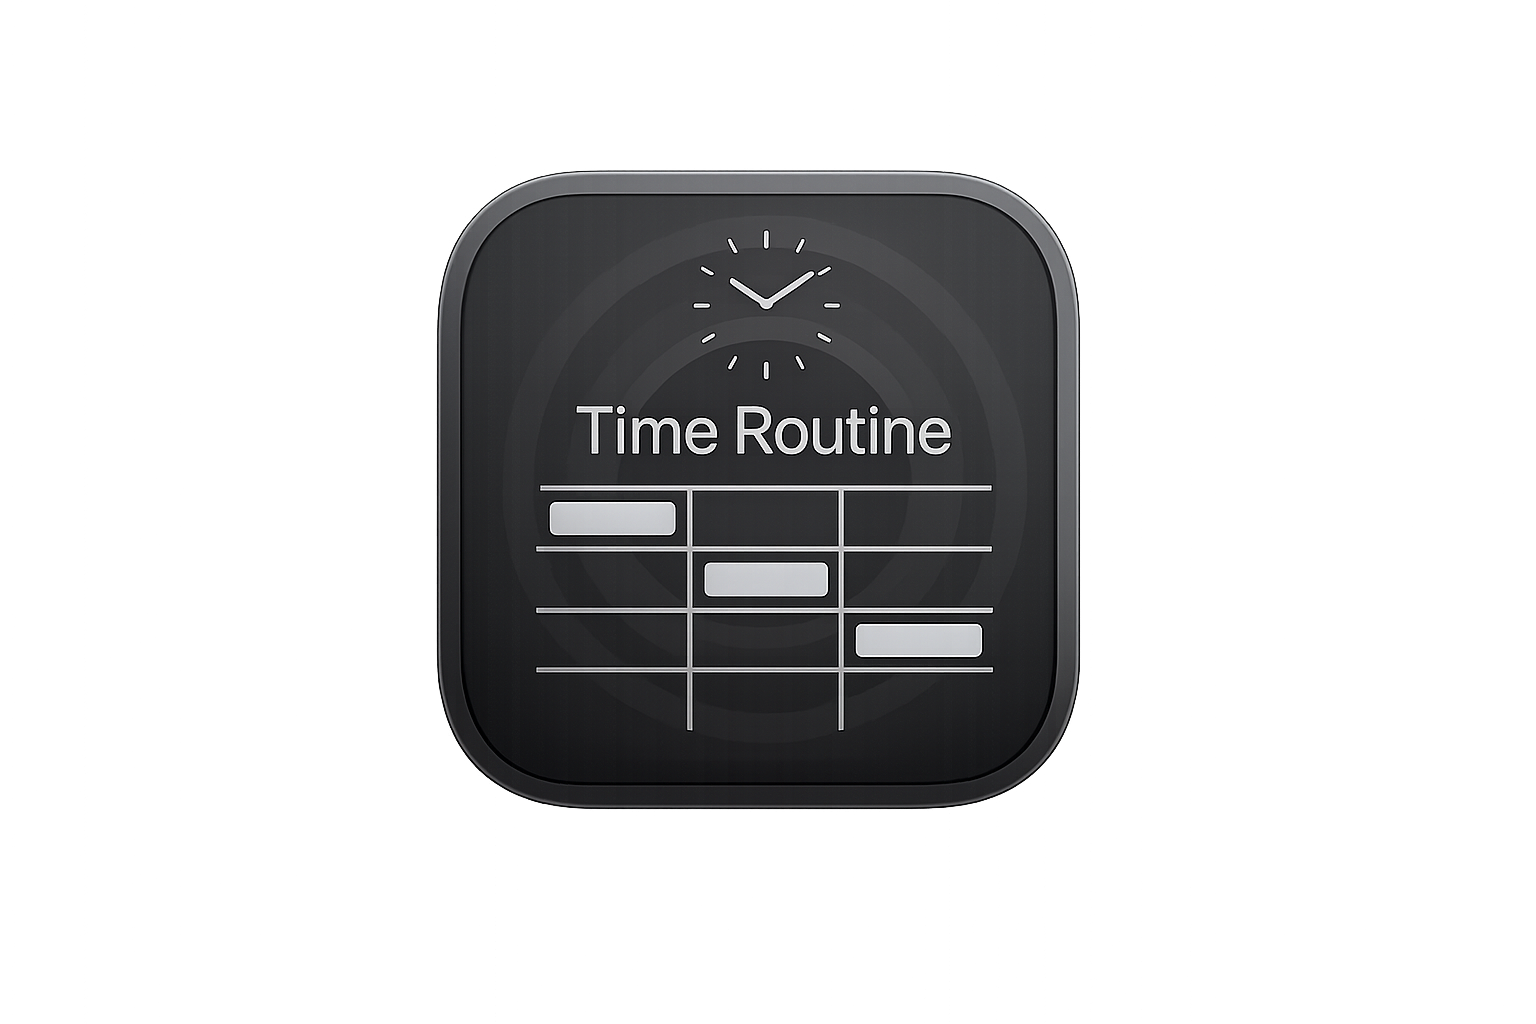
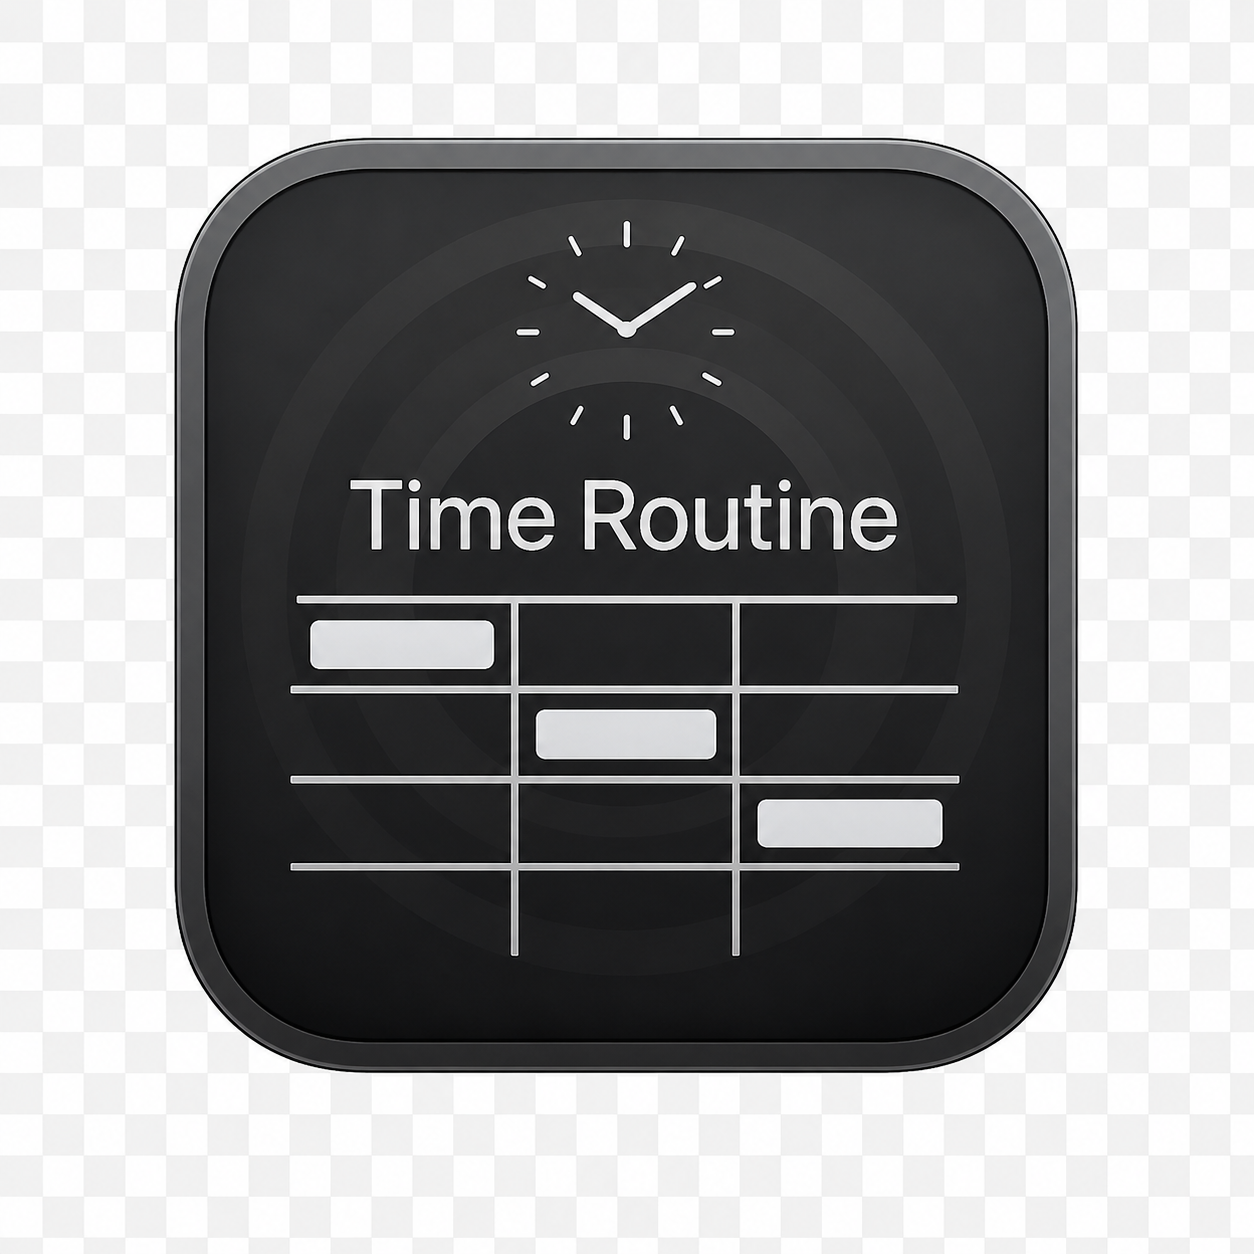
Add files via upload

diff --git a/style.css b/style.css
@@ -2099,3 +2099,87 @@ body.uiHidden .restoreHandle{
         flex:1 1 45%;
     }
 }
+
+/* ===================================== */
+/* WELCOME / INSTALL GUIDE                */
+/* ===================================== */
+
+.welcomeHeader{
+    text-align:center;
+}
+
+.welcomeEmoji{
+    font-size:44px;
+    margin-bottom:8px;
+}
+
+.welcomeSub{
+    color:var(--sub);
+    margin-top:8px;
+    line-height:1.6;
+}
+
+.installGuide{
+    display:flex;
+    flex-direction:column;
+    gap:14px;
+    margin-bottom:24px;
+}
+
+.installStep{
+    display:flex;
+    align-items:flex-start;
+    gap:14px;
+    padding:16px;
+    border-radius:20px;
+    background:var(--surface-alt);
+}
+
+.installStepNum{
+    flex-shrink:0;
+    width:28px;
+    height:28px;
+    border-radius:50%;
+    background:var(--blue);
+    color:white;
+    font-size:14px;
+    font-weight:700;
+    display:flex;
+    align-items:center;
+    justify-content:center;
+}
+
+.installStepText strong{
+    display:block;
+    margin-bottom:4px;
+    font-size:15px;
+}
+
+.installStepText p{
+    color:var(--sub);
+    font-size:13px;
+    line-height:1.6;
+}
+
+.installIcon{
+    font-weight:700;
+}
+
+.welcomeDriveNote{
+    display:flex;
+    align-items:flex-start;
+    gap:10px;
+    margin-top:18px;
+    padding:14px 16px;
+    border-radius:16px;
+    background:var(--surface-alt);
+    color:var(--sub);
+    font-size:13px;
+    line-height:1.5;
+}
+
+.welcomeDriveIcon{
+    font-size:16px;
+    flex-shrink:0;
+    line-height:1.4;
+}

diff --git a/app.js b/app.js
@@ -308,6 +308,9 @@ const exportButton = document.getElementById("exportButton");
 const importButton = document.getElementById("importButton");
 const importFile = document.getElementById("importFile");
 
+const welcomeModal = document.getElementById("welcomeModal");
+const welcomeCloseButton = document.getElementById("welcomeCloseButton");
+
 const scheduleSearchInput = document.getElementById("scheduleSearchInput");
 const searchAddButton = document.getElementById("searchAddButton");
 const captureArea = document.getElementById("captureArea");
@@ -1800,7 +1803,13 @@ function setupModalCloseButtons(){
         closeBtn.className = "sheetCloseButton";
         closeBtn.setAttribute("aria-label", "닫기");
         closeBtn.textContent = "⌄";
-        closeBtn.onclick = () => modal.classList.remove("show");
+        closeBtn.onclick = () => {
+            if(modal.id === "welcomeModal"){
+                closeWelcomeGuide();
+            }else{
+                modal.classList.remove("show");
+            }
+        };
 
         sheet.insertBefore(closeBtn, sheet.firstChild);
     });
@@ -2174,6 +2183,50 @@ importFile.onchange = () => {
 };
 
 /* ============================= */
+/* 최초 방문 안내 (홈 화면에 추가)     */
+/* ============================= */
+
+const WELCOME_KEY = "timeroutine_welcome_shown";
+
+function isStandaloneApp(){
+    return (
+        window.navigator.standalone === true ||
+        (window.matchMedia && window.matchMedia("(display-mode: standalone)").matches)
+    );
+}
+
+function isIOSDevice(){
+    const ua = navigator.userAgent || "";
+    const isIOSUA = /iPad|iPhone|iPod/.test(ua);
+    const isIPadOS = navigator.platform === "MacIntel" && navigator.maxTouchPoints > 1;
+    return isIOSUA || isIPadOS;
+}
+
+function maybeShowWelcomeGuide(){
+    if(!welcomeModal) return;
+    // 세션 저장소 사용: 브라우저/앱을 나갔다가 다시 들어오면 새 세션으로
+    // 인식되어 안내가 다시 표시됩니다.
+    if(sessionStorage.getItem(WELCOME_KEY)) return;
+    if(isStandaloneApp()){
+        sessionStorage.setItem(WELCOME_KEY, "true");
+        return;
+    }
+    if(!isIOSDevice()) return;
+    welcomeModal.classList.add("show");
+}
+
+function closeWelcomeGuide(){
+    if(welcomeModal){
+        welcomeModal.classList.remove("show");
+    }
+    sessionStorage.setItem(WELCOME_KEY, "true");
+}
+
+if(welcomeCloseButton){
+    welcomeCloseButton.onclick = closeWelcomeGuide;
+}
+
+/* ============================= */
 /* 초기화                          */
 /* ============================= */
 
@@ -2192,6 +2245,11 @@ function init(){
     pickRandomQuote();
     renderAll();
     updateDriveUI();
+    try{
+        maybeShowWelcomeGuide();
+    }catch(err){
+        console.error("설치 안내 표시 중 오류:", err);
+    }
 }
 
 document.addEventListener("DOMContentLoaded", init);

diff --git a/index.html b/index.html
@@ -452,6 +452,63 @@
     </div>
 
     <!-- ========================= -->
+    <!-- WELCOME / INSTALL GUIDE MODAL -->
+    <!-- ========================= -->
+
+    <div class="modal" id="welcomeModal">
+        <div class="modalSheet">
+            <div class="sheetHeader welcomeHeader">
+                <div class="welcomeEmoji">✨</div>
+                <h2>Time Routine에 오신 걸 환영해요</h2>
+                <p class="welcomeSub">홈 화면에 추가하면 앱처럼 더 편하게 쓸 수 있어요.</p>
+            </div>
+
+            <div class="installGuide">
+                <div class="installStep">
+                    <span class="installStepNum">1</span>
+                    <div class="installStepText">
+                        <strong>Safari에서 열기</strong>
+                        <p>다른 앱 안에서 열었다면 Safari로 열어주세요.</p>
+                    </div>
+                </div>
+
+                <div class="installStep">
+                    <span class="installStepNum">2</span>
+                    <div class="installStepText">
+                        <strong>공유 버튼 탭하기</strong>
+                        <p>화면 하단의 <span class="installIcon">⎋</span> 공유 아이콘을 눌러주세요.</p>
+                    </div>
+                </div>
+
+                <div class="installStep">
+                    <span class="installStepNum">3</span>
+                    <div class="installStepText">
+                        <strong>더보기 선택</strong>
+                        <p>목록을 아래로 내려 "더보기"를 눌러주세요.</p>
+                    </div>
+                </div>
+
+                <div class="installStep">
+                    <span class="installStepNum">4</span>
+                    <div class="installStepText">
+                        <strong>홈 화면에 추가</strong>
+                        <p>"홈 화면에 추가"를 선택하면 아이콘이 생성돼요.</p>
+                    </div>
+                </div>
+            </div>
+
+            <div class="welcomeDriveNote">
+                <span class="welcomeDriveIcon">☁️</span>
+                <span>설정에서 구글 드라이브를 연결하면 시간표와 디데이가 자동으로 백업돼요.</span>
+            </div>
+
+            <div class="modalButtons">
+                <button id="welcomeCloseButton" class="primaryButton">확인했어요</button>
+            </div>
+        </div>
+    </div>
+
+    <!-- ========================= -->
     <!-- BOTTOM NAVIGATION -->
     <!-- ========================= -->
 